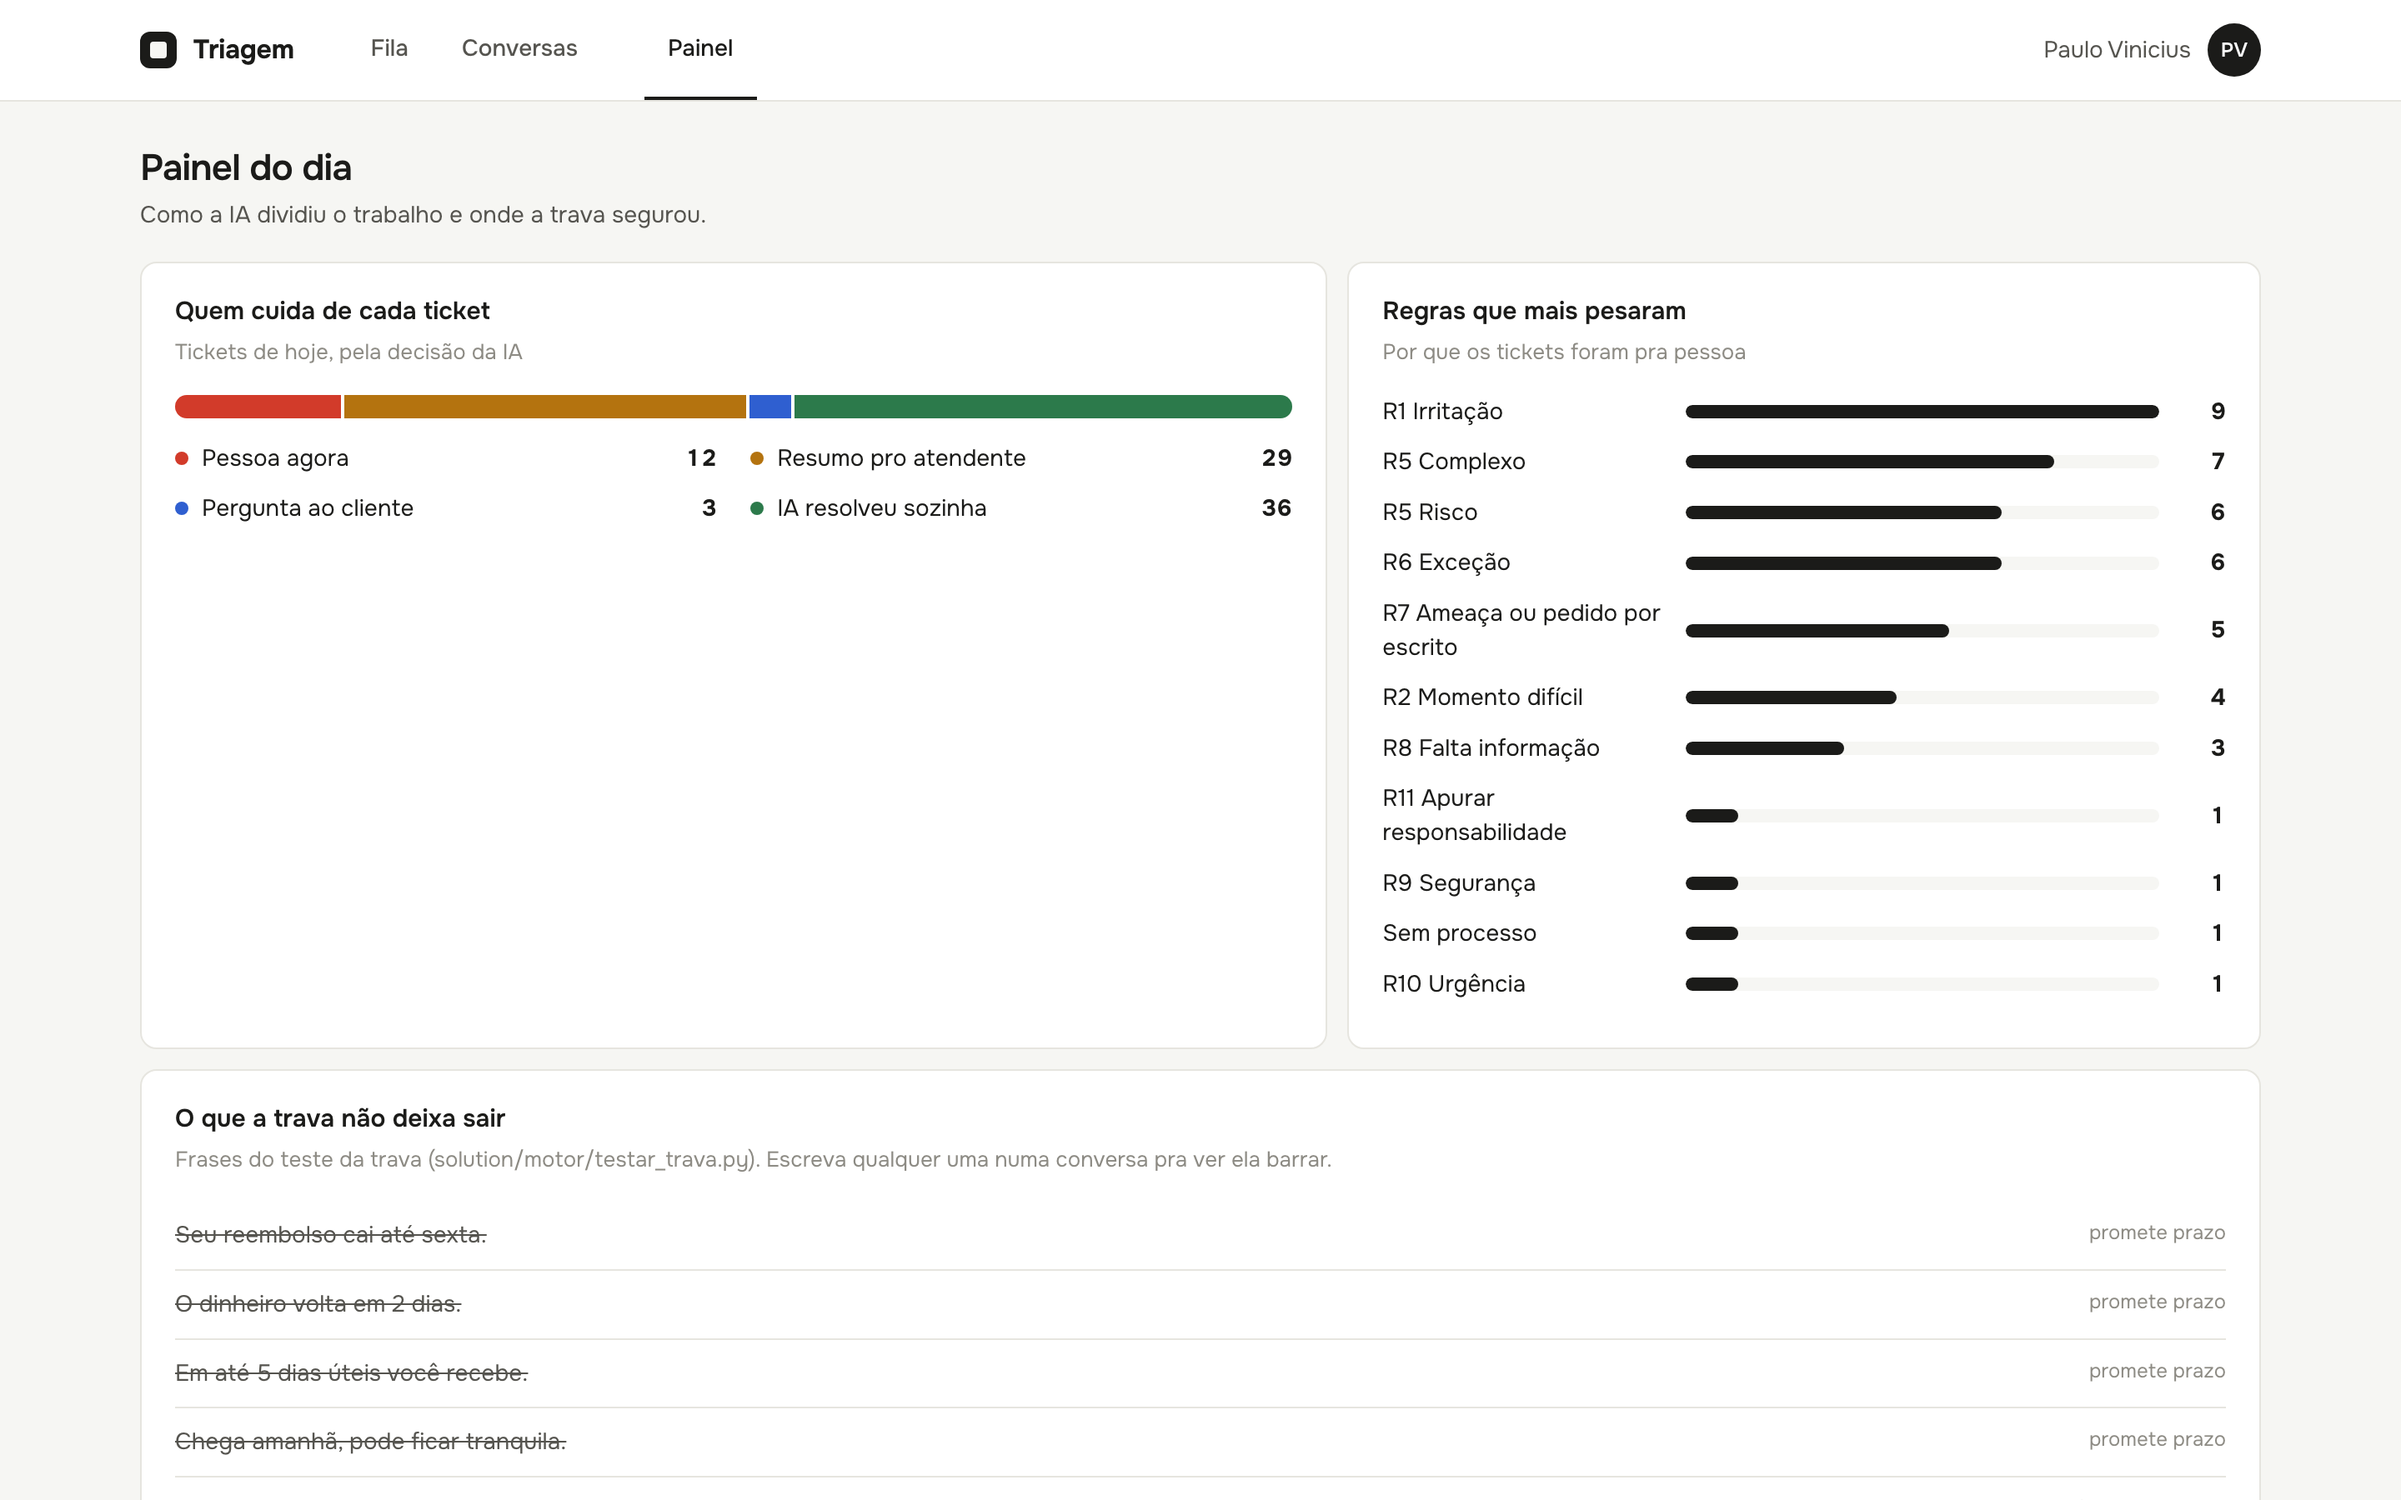
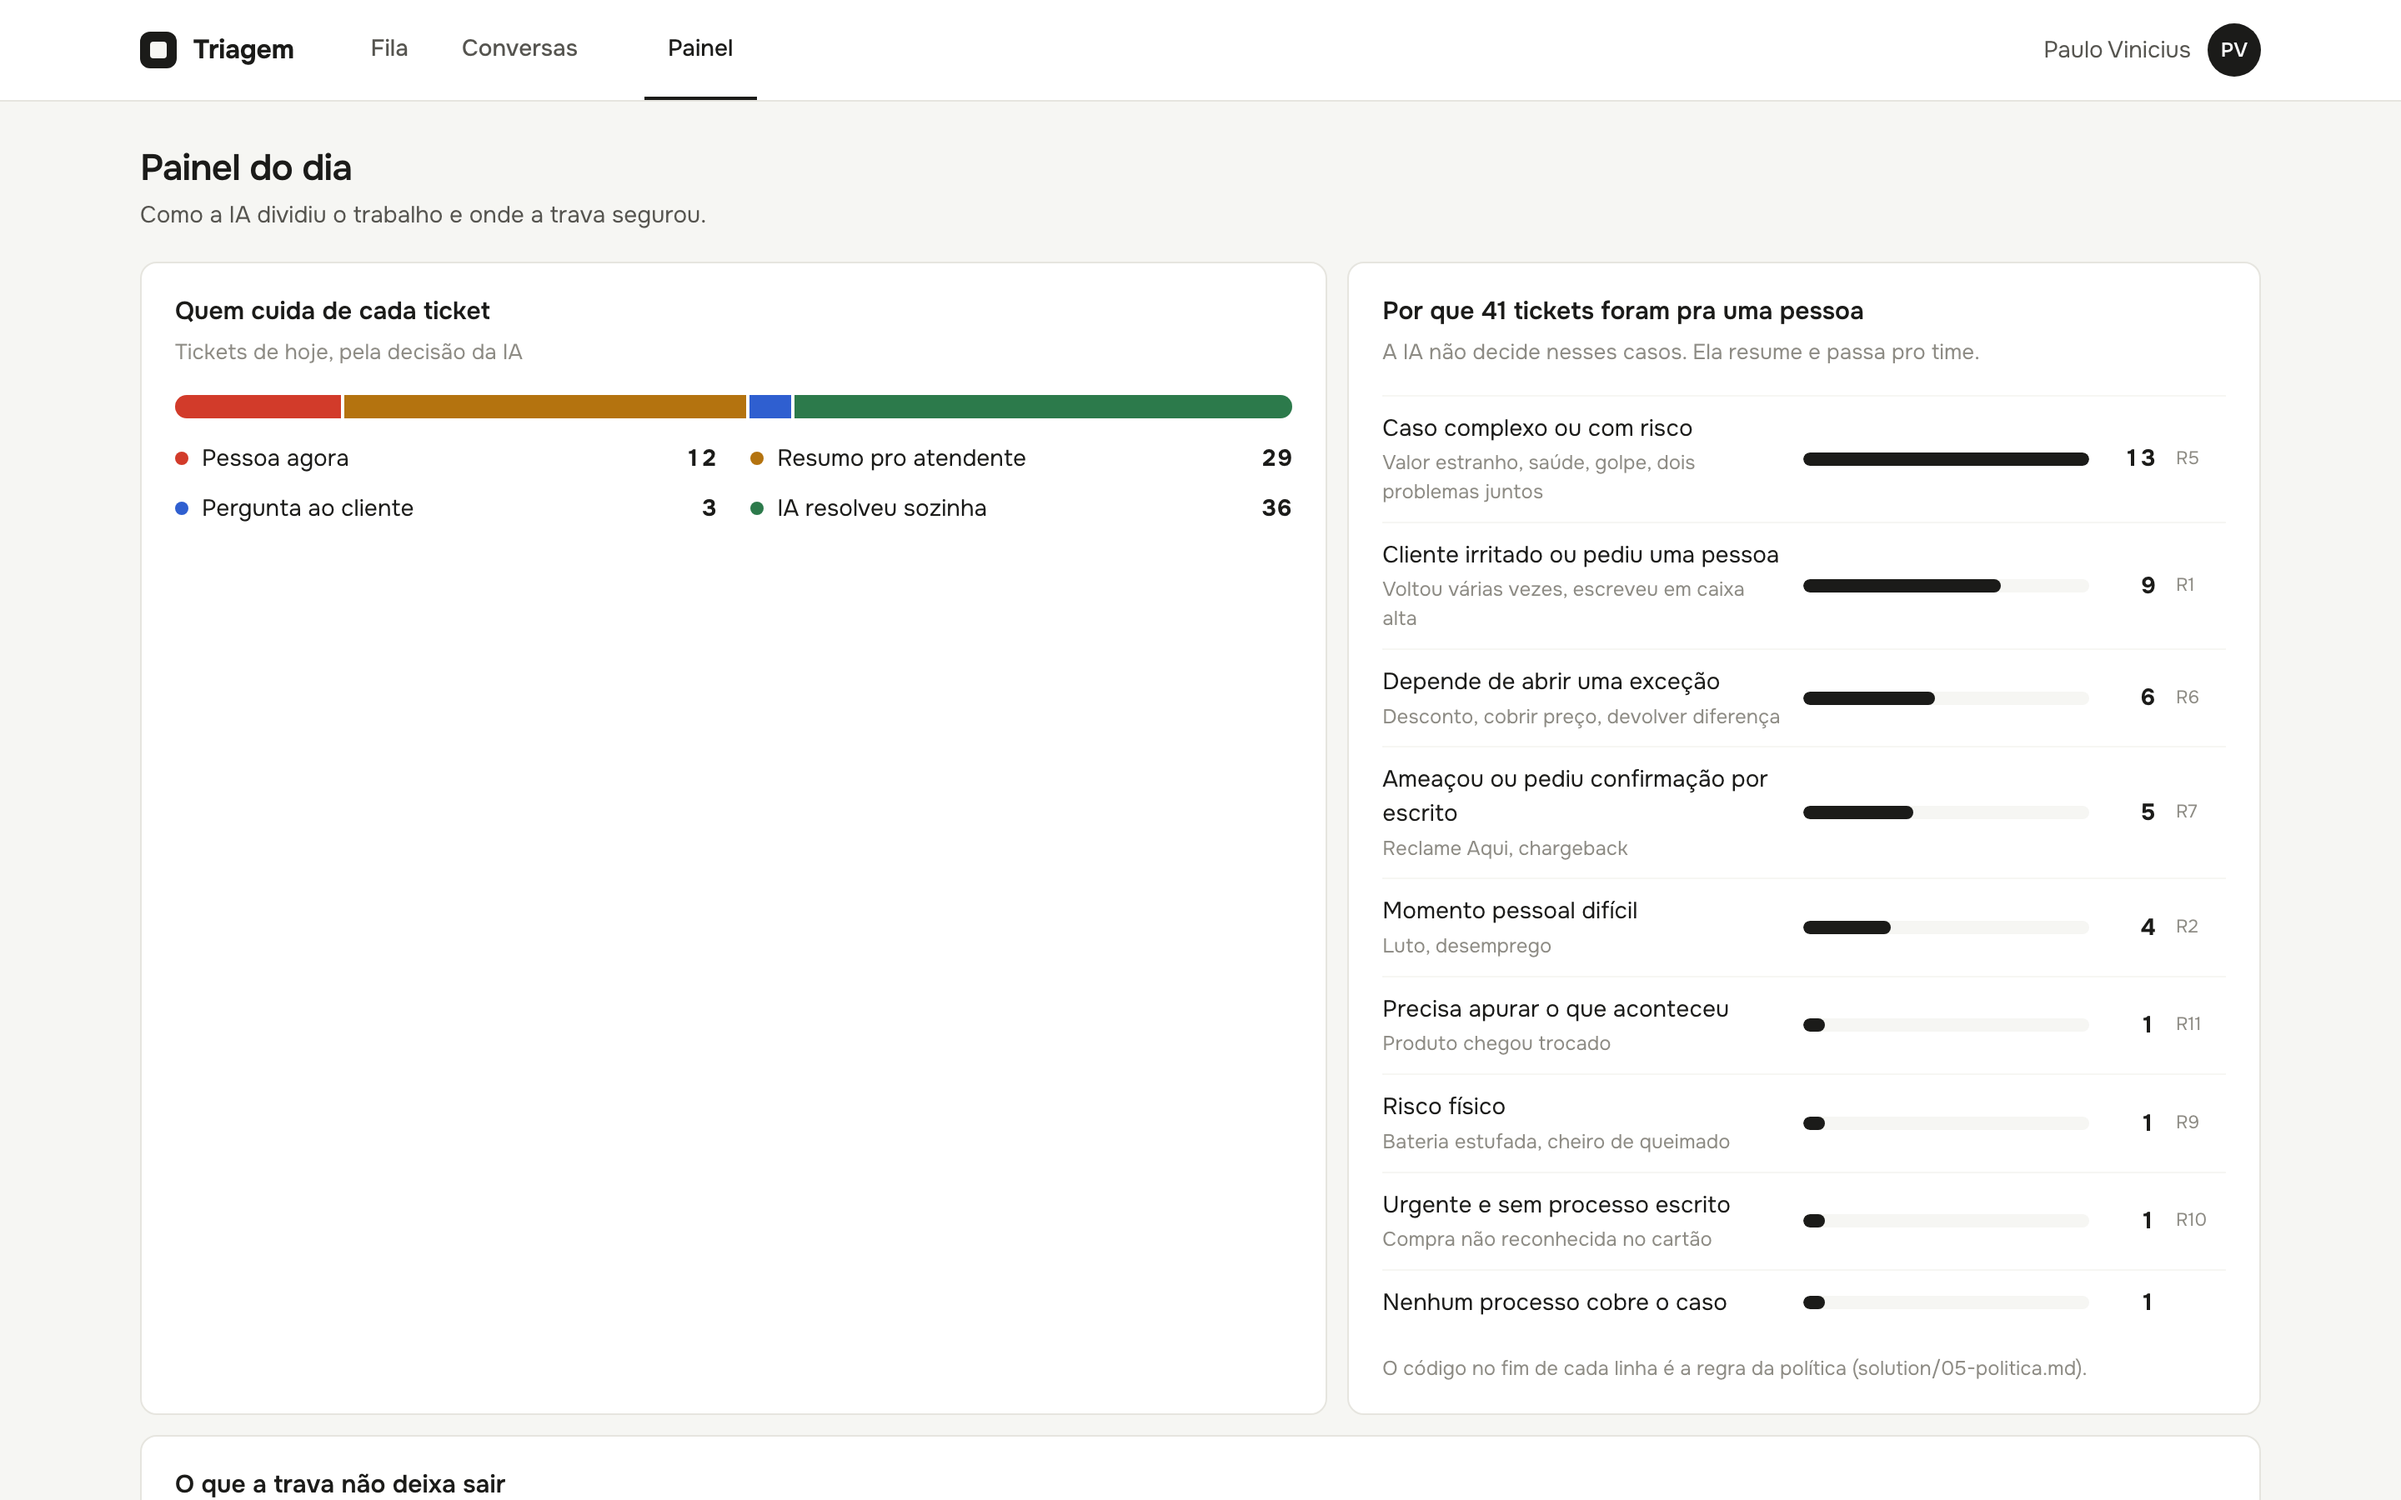
Painel: motivo escrito no lugar do código da regra
O quadro agora diz por que cada ticket foi pra uma pessoa, em português,
com exemplo. O R5 deixa de aparecer duas vezes e o quadro conta só os
41 que foram pra pessoa (antes somava os 3 em que a IA pergunta ao
cliente). Print do painel refeito.

diff --git a/submissions/vinicius-alves/solution/interface/index.html b/submissions/vinicius-alves/solution/interface/index.html
@@ -226,7 +226,11 @@
   .legenda { display: grid; grid-template-columns: repeat(2, 1fr); gap: 10px 20px; }
   .legenda div { display: flex; align-items: center; gap: 8px; }
   .legenda b { margin-left: auto; }
-  .lista-barra div { display: grid; grid-template-columns: 170px 1fr 28px; gap: 12px; align-items: center; margin-bottom: 10px; }
+  .lista-barra > div { display: grid; grid-template-columns: minmax(0, 1.4fr) minmax(0, 1fr) 28px 30px; gap: 12px; align-items: center; padding: 9px 0; border-top: 1px solid var(--fundo); }
+  .lista-barra .motivo { display: block; }
+  .lista-barra .exemplo { display: block; color: var(--apagado); font-size: 12px; margin-top: 2px; }
+  .lista-barra .cod { color: var(--apagado); font-size: 11px; }
+  .grade .nota { margin: 12px 0 0; color: var(--apagado); font-size: 12px; }
   .lista-barra .trilho { height: 8px; background: var(--fundo); border-radius: 4px; overflow: hidden; }
   .lista-barra .trilho i { display: block; height: 100%; background: var(--texto); border-radius: 4px; }
   .lista-barra b { text-align: right; }
@@ -259,7 +263,7 @@
     .inbox.com-conversa .thread { display: flex; }
     .voltar { display: grid; }
     .bolha { max-width: 85%; }
-    .lista-barra div { grid-template-columns: 120px 1fr 24px; }
+    .lista-barra > div { grid-template-columns: minmax(0, 1.6fr) minmax(0, 1fr) 24px 26px; }
   }
 </style>
 </head>
@@ -335,7 +339,7 @@
     </div>
     <div class="grade">
       <div class="quadro"><h2>Quem cuida de cada ticket</h2><p class="sub">Tickets de hoje, pela decisão da IA</p><div class="barra-total" id="barra-total"></div><div class="legenda" id="legenda"></div></div>
-      <div class="quadro"><h2>Regras que mais pesaram</h2><p class="sub">Por que os tickets foram pra pessoa</p><div class="lista-barra" id="regras"></div></div>
+      <div class="quadro"><h2 id="regras-titulo">Por que os tickets foram pra uma pessoa</h2><p class="sub">A IA não decide nesses casos. Ela resume e passa pro time.</p><div class="lista-barra" id="regras"></div><p class="nota">O código no fim de cada linha é a regra da política (solution/05-politica.md).</p></div>
       <div class="quadro" style="grid-column: 1 / -1"><h2>O que a trava não deixa sair</h2><p class="sub">Frases do teste da trava (solution/motor/testar_trava.py). Escreva qualquer uma numa conversa pra ver ela barrar.</p><ul class="barradas" id="barradas"></ul></div>
     </div>
     <p class="aviso">Números dos 80 tickets do teste, decididos pelo motor.</p>
@@ -345,6 +349,17 @@
 <script src="dados.js"></script>
 <script>
 const EU = "Paulo Vinicius";
+const MOTIVOS = {
+  R1: ["Cliente irritado ou pediu uma pessoa", "Voltou várias vezes, escreveu em caixa alta"],
+  R2: ["Momento pessoal difícil", "Luto, desemprego"],
+  R5: ["Caso complexo ou com risco", "Valor estranho, saúde, golpe, dois problemas juntos"],
+  R6: ["Depende de abrir uma exceção", "Desconto, cobrir preço, devolver diferença"],
+  R7: ["Ameaçou ou pediu confirmação por escrito", "Reclame Aqui, chargeback"],
+  R9: ["Risco físico", "Bateria estufada, cheiro de queimado"],
+  R10: ["Urgente e sem processo escrito", "Compra não reconhecida no cartão"],
+  R11: ["Precisa apurar o que aconteceu", "Produto chegou trocado"],
+  "": ["Nenhum processo cobre o caso", ""],
+};
 const TICKETS = window.TICKETS;
 const ACOES = {
   D: { nome: "Pessoa agora", classe: "d", ordem: 0 },
@@ -696,11 +711,16 @@ function painel() {
   const n = g => TICKETS.filter(t => g.includes(t.acao)).length;
   el("barra-total").innerHTML = grupos.map(([g]) => `<i style="flex:${n(g)};background:${cores[g]}"></i>`).join("");
   el("legenda").innerHTML = grupos.map(([g, nome]) => `<div><span class="ponto" style="background:${cores[g]}"></span>${nome}<b class="num">${n(g)}</b></div>`).join("");
+  // Só os que foram pra uma pessoa (C e D), agrupados pelo número da regra e escritos pra quem não conhece a política.
+  const pessoa = TICKETS.filter(t => "CD".includes(t.acao));
   const regras = {};
-  TICKETS.filter(t => "DCE".includes(t.acao)).forEach(t => (regras[t.regra] = (regras[t.regra] || 0) + 1));
+  pessoa.forEach(t => { const cod = /^R\d+/.test(t.regra) ? t.regra.split(" ")[0] : ""; regras[cod] = (regras[cod] || 0) + 1; });
   const max = Math.max(...Object.values(regras));
-  el("regras").innerHTML = Object.entries(regras).sort((a, b) => b[1] - a[1])
-    .map(([r, q]) => `<div><span>${esc(r)}</span><span class="trilho"><i style="width:${(q / max) * 100}%"></i></span><b class="num">${q}</b></div>`).join("");
+  el("regras-titulo").textContent = `Por que ${pessoa.length} tickets foram pra uma pessoa`;
+  el("regras").innerHTML = Object.entries(regras).sort((a, b) => b[1] - a[1] || !a[0] - !b[0]).map(([cod, q]) => {
+    const [motivo, exemplo] = MOTIVOS[cod] || MOTIVOS[""];
+    return `<div><span><span class="motivo">${esc(motivo)}</span>${exemplo ? `<span class="exemplo">${esc(exemplo)}</span>` : ""}</span><span class="trilho"><i style="width:${(q / max) * 100}%"></i></span><b class="num">${q}</b><span class="cod">${cod}</span></div>`;
+  }).join("");
   el("barradas").innerHTML = (window.TRAVA_EXEMPLOS || []).map(x => `<li><s>${esc(x.frase)}</s><span>${esc(x.motivo)}</span></li>`).join("");
 }
 
